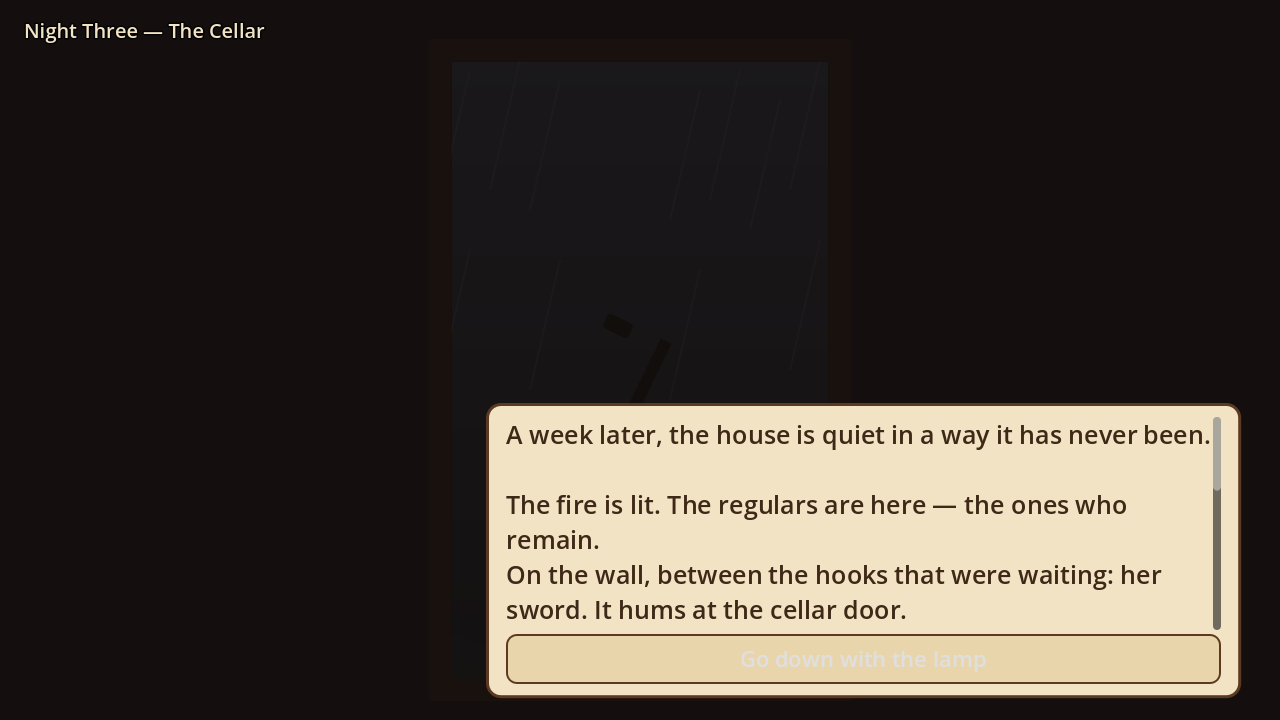
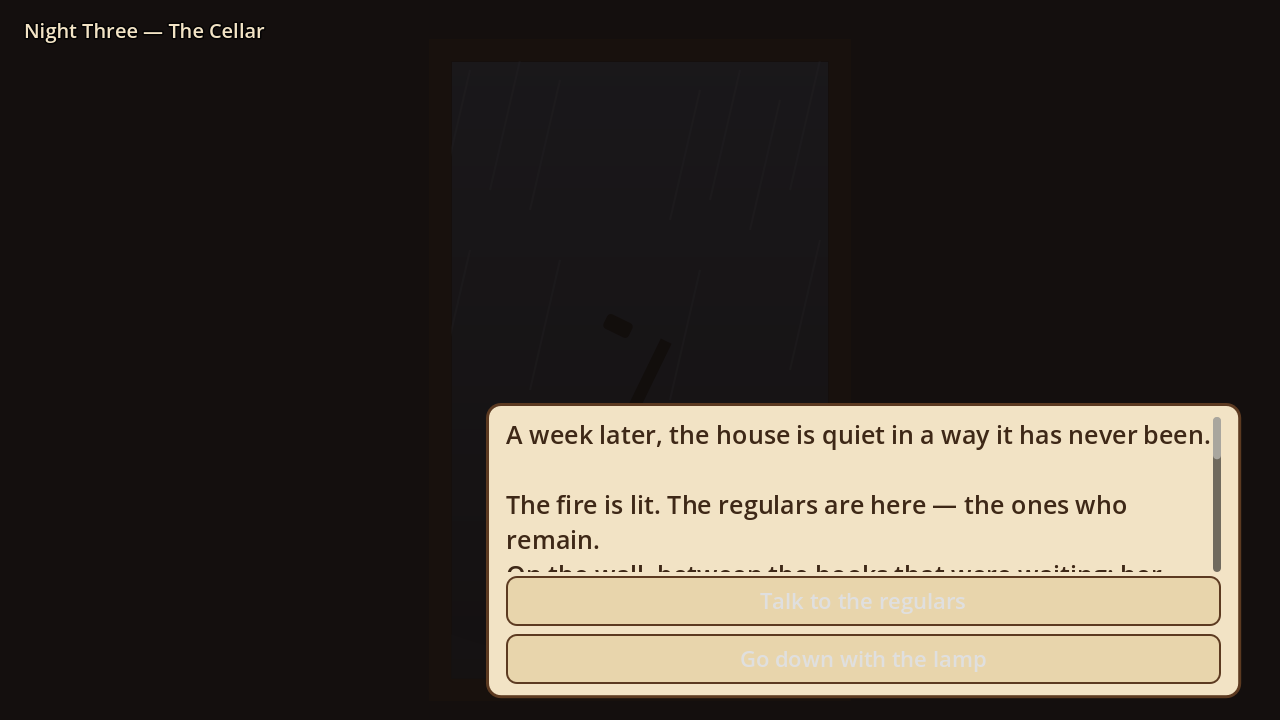
The regulars: the inn is a living museum of how you treated the ones who came
- Before the door on night three, you can talk to the regulars who remain.
  Garrick and Fenwick are always there; Renn and Keld only if you sent them;
  the woman in grey only if she didn't die. Absence is the loudest line.
- Each regular reads the playthrough live: the quest they walked, the pour you
  chose, the guest flags you earned. Renn's quiet pour comes back to him, Keld
  remembers the Dark, the kid who came home empty from the caravan still counts.
- It's a menu, not a cutscene — the player chooses who to sit with, so the same
  scene lands differently every run. Pure reading of existing world + character
  state, no new flags.
- Extended the demo + shots (28_regulars, 29_regular_talk), added a smoke block
  that checks the dead woman is absent and Renn's mill line reads back,
  updated README + DECISIONS.

Changed region(s): [[0.375, 0.7944, 0.9688, 0.8861], [0.9375, 0.6417, 0.9688, 0.6722]]

diff --git a/DECISIONS.md b/DECISIONS.md
@@ -86,3 +86,10 @@ Considered:
 - **The fire-lighting ritual** now opens the night, and the title's "Open the Inn" became "Light the fire" — the game's opening click is a small ritual, not an entrance.
 - **The quiet beat is a verb, not a cutscene.** "Listen to the night" lives in the guest menu, so an empty inn is something you *choose* to sit with — the fire, the rain, a Common you poured yourself. Cheap to build, but it's the sentence the design keeps repeating: *an empty inn can be company.*
 - **Weather has no numbers.** It's the window being a window — the same rule as the world map. The game never says "season 3"; it just rains, then snows, then it's dark at the glass.
+
+## Prototype — the regulars (the living museum)
+
+- **The inn is a museum of how you poured (docs/01, 07).** On the last night, before the door, you can talk to the regulars who remain — Garrick and Fenwick are always there, Renn and Keld only if you sent them, the woman in grey only if she didn't die. Absence is the loudest line: the woman's empty chair is the point.
+- **Each regular reads the playthrough.** Their lines are computed live from quests sent, pours chosen, and guest flags (`has_guest_flag`) — Renn's quiet pour comes back to him, Keld remembers the Dark, the kid who came back empty on the caravan still counts.
+- **It's a menu, not a cutscene.** The player chooses who to sit with, which keeps it interactive and lets the same scene land differently every run.
+- **The regulars need no new state.** They're pure reading of existing world + character state — the third feature in a row (night-two sends, night-three mirror, now the regulars) built on the same plumbing, which keeps validating the `db21c9f`/`dad3674` investment.

diff --git a/README.md b/README.md
@@ -51,6 +51,8 @@ It then closes the arc on **night three — the door**: the cellar is a capstone
 
 Around all of it sits the weather and the quiet (docs/06): each night opens with the fire-lighting ritual and the window's season (autumn rain → first snow → deep winter), and between guests you can stop and listen to the night — pour yourself a Common and let an empty inn be company.
 
+And before the door, **the regulars** (docs/01, 07): the inn is a living museum of the playthrough. You can talk to the ones who remain — Garrick always, Fenwick always, Renn and Keld if you sent them, the woman in grey only if she didn't die — and each one reads back how they were treated, the quest they walked, the pour you chose. Absence speaks too.
+
 Run it:
 
 ```sh
